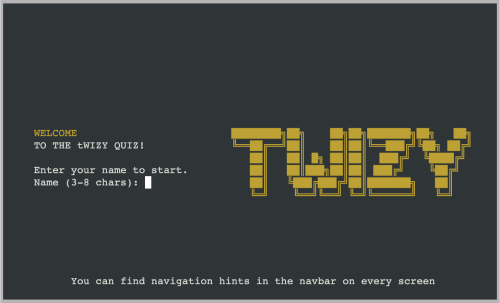
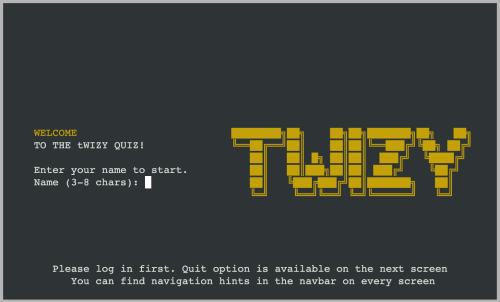
Add paragraph to README about hints on login screen

diff --git a/screens/login_screen.py b/screens/login_screen.py
@@ -30,7 +30,7 @@ def login_screen_handler(stdscr):
         Text("Enter your name to start.", 13, layout.FRAME_PADDING_LEFT,
              color),
         CenteredText("Please log in first. Quit option is available "
-                    "on the next screen", 21, color),
+                     "on the next screen", 21, color),
         CenteredText("You can find navigation hints in the navbar on every "
                      "screen", 22, color),
     ]

diff --git a/README.md b/README.md
@@ -105,6 +105,10 @@ A welcoming message greets the user, with a field to enter their name. This fiel
 
 The tWIZY application uses the Python curses library, which refreshes the screen whenever a key is pressed. To allow users to delete letters with the backspace key, a special code block was added to handle this functionality.
 
+The username must be between 3 and 8 letters long. Only alphabetic characters are allowed — no numbers, spaces, or special symbols.
+This ensures the username is simple and unique, making it easy to recognize during gameplay. <br>
+If the input doesn't meet these criteria, an error message `Error: username too short` will appear for shorter than 3 letters name or a hint message `Hint: Only letters please` for not allowed characters.
+
 ### F03 Home screen
 
 On the home screen of the tWIZY app, the user can find the rules for the tWIZY quiz game. They also see the username they entered on the previous login screen (it also applicable for Game and Outcome screens). This screen features a frame that surrounds the rules and a navigation hint.
